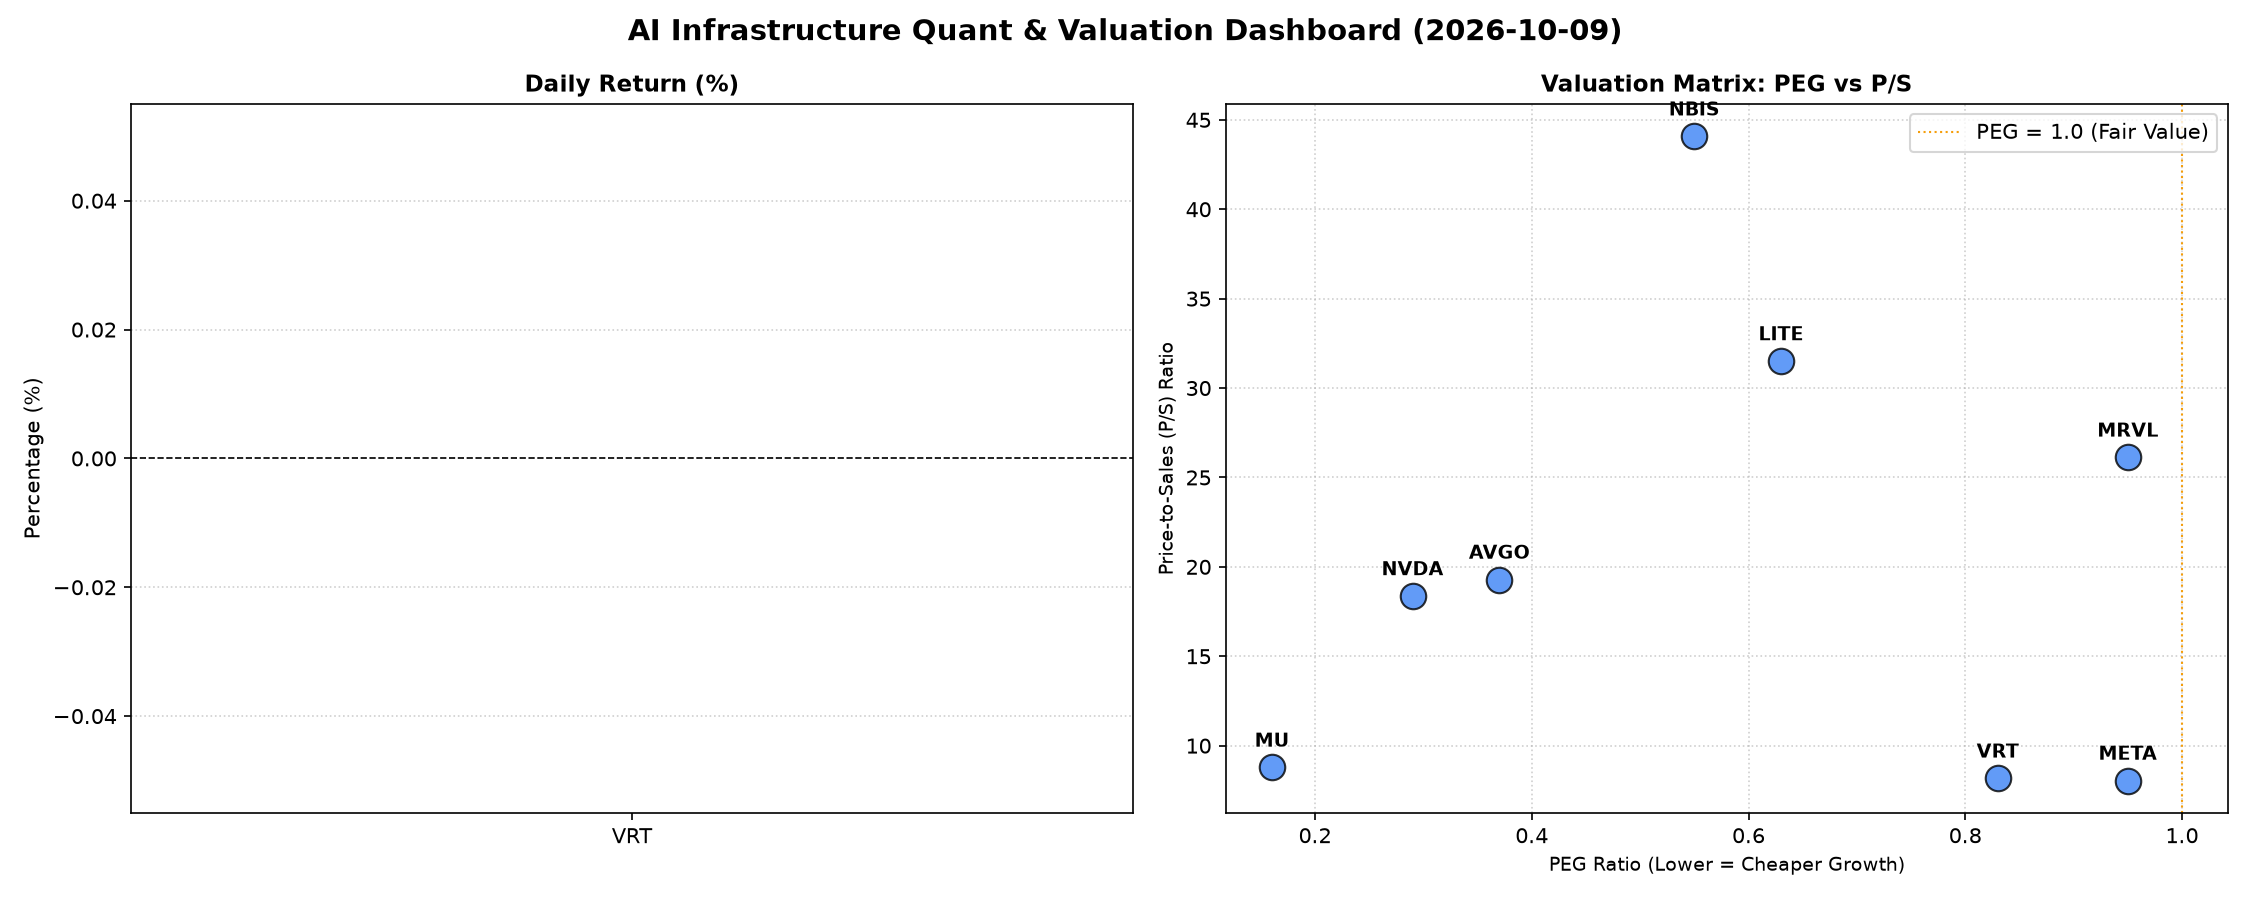
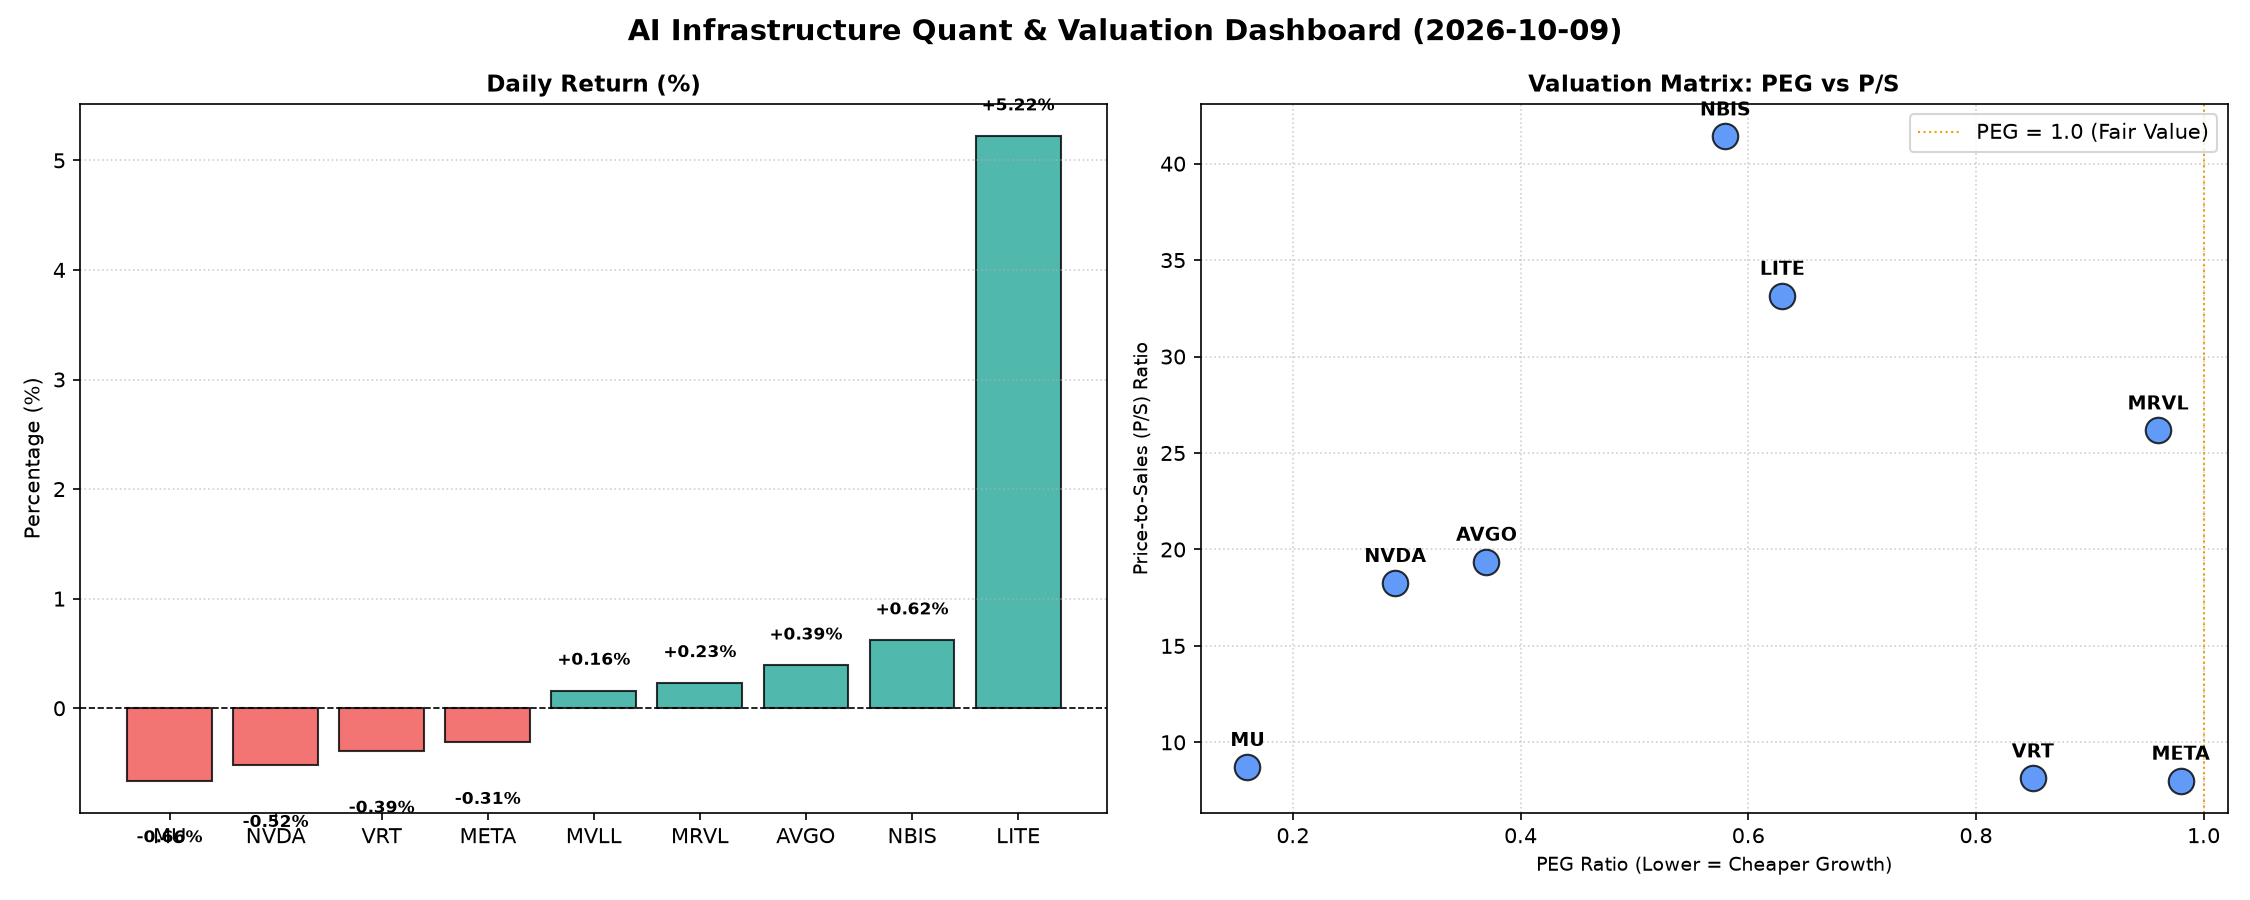
Add daily report with charts 2026-10-09

diff --git a/reports/2026-10-09.md b/reports/2026-10-09.md
@@ -5,66 +5,86 @@
 
 ---
 
-尊敬的硬科技与AI基础设施投资者，
-
-您好！今日我们深度剖析【多维度真实量化基本面指标表格】，为您提供一份聚焦半导体与AI生态的每日精炼洞察。鉴于今日【收盘价 (Close)】与【日涨跌幅 (Change%)】数据缺失，我们本次分析将完全立足于核心估值与财务质量指标，旨在揭示市场深层逻辑。
+作为一名资深的硬科技与AI基础设施行业研究员，我将根据您提供的多维度量化指标，为您撰写今日的半导体每日精炼报道。
 
 ---
 
-### **1. 盘面与多维估值解码：深层基本面揭示**
+**半导体每日精炼报道 – 2024年X月Y日**
 
-今日市场聚焦于硬科技与AI基础设施板块，我们通过PEG、P/S及现金流质量（CFO/NI）三大维度，穿透表象，揭示公司真实价值与风险。
+**聚焦AI基础设施与数据中心：多维度量化剖析市场脉搏**
 
-*   **PEG 维度：高成长中的极致性价比（PEG < 1）**
-    *   **极致性价比代表：** **MU (0.16), NVDA (0.29), AVGO (0.37)** 表现出令人惊叹的成长与估值匹配度，其PEG值显著小于1，表明市场对其未来盈利增长的预期远未完全反映在当前股价中。对于追求高成长、低估值错配的投资者而言，这三家公司具备极高的配置价值。
-    *   **良好性价比：** **NBIS (0.55), LITE (0.63), VRT (0.83), META (0.95), MRVL (0.95)** 同样展示出健康的PEG水平，均在1以下。这意味着这些公司的增长潜力仍被市场相对低估，或其高增长足以支撑当前的估值。特别是META，作为AI基础设施的受益者，其0.95的PEG显示了良好的成长性与估值平衡。
-    *   **数据缺失：** **MVLL** 因PEG为N/A，表明其可能处于无利润或负利润阶段，无法通过此维度评估。
+今日半导体板块整体表现平稳，多数核心个股录得小幅波动。然而，在平静的表象之下，深层次的估值、盈利质量与成长性指标正悄然揭示各公司截然不同的基本面图景。AI浪潮对算力与数据基础设施的需求持续高涨，但市场已开始对不同公司的“AI纯度”及其财务健康度进行更细致的审视。
 
-*   **P/S 维度：营收规模扩张效率的考量**
-    *   **高P/S警示与解读：** **NBIS (44.08), LITE (31.51), MRVL (26.12), AVGO (19.29), NVDA (18.37)** 的P/S值相对较高。对于NBIS和LITE，如此高的P/S意味着市场对其未来营收的爆发式增长有极高预期，或其商业模式具备极强的稀缺性和高毛利潜力。对于NVDA和AVGO这样已具备庞大营收规模的巨头，高P/S结合其极低的PEG，进一步印证了AI浪潮下其营收增速的强劲与市场对其未来领导地位的高度认可。投资者需关注其高P/S是否能持续被未来的营收扩张所消化。
-    *   **相对合理P/S：** **VRT (8.17), META (8.05), MU (8.78)** 的P/S值处于行业中等水平，结合其健康的PEG，显示出营收扩张与估值之间的良好平衡。
-    *   **数据缺失：** **MVLL** 因P/S为N/A，同样无法从营收维度进行估值。
+---
 
-*   **现金流盈利真实性 (CFO/NI)：穿透利润的“真金白银”**
-    *   **卓越现金质量（CFO/NI > 1.5）：**
-        *   **NBIS (4.66)** 表现尤为突出，其CFO/NI高达4.66，远超其他公司，这意味着其报告的净利润极度保守，实际产生的经营现金流是净利润的数倍。这预示着极强的内生增长动力和财务健康度。
-        *   **MU (2.05), META (1.92), VRT (1.59)** 也展示了非常健康的现金流转化能力，其经营活动产生的现金流远超净利润，表明其利润质量极高，是实打实的“真金白银”。META作为AI巨头，其1.92的CFO/NI印证了其在盈利能力上的强大现金生成能力。
-    *   **健康现金流（1 < CFO/NI < 1.5）：** **AVGO (1.19)** 的现金流转化效率也十分健康，表明其利润具有良好的现金支撑。
-    *   **警惕利润水分或应收积压（CFO/NI < 1）：**
-        *   **NVDA (0.86)** 略低于1，虽然差距不大，但对于一家高利润巨头而言，值得投资者关注其利润构成中非现金部分（如股票薪酬、递延收入等）的影响，或是否有应收账款累积的迹象。
-        *   **MRVL (0.66)** 的CFO/NI显著低于1，表明其报告的净利润有一部分可能并未转化为实际的经营现金流，存在利润质量欠佳或营运资本管理挑战（如存货增加、应收账款积压）的风险，需深入分析。
-        *   **LITE (-0.11)** 表现出严重的现金流问题。尽管其PEG为0.63（暗示有正向盈利），但CFO/NI为负值，这意味着其经营活动正在消耗现金，而非产生现金。这对其盈利的真实性和公司持续运营能力敲响了警钟，是一个重大的红色信号。
+### **1. 盘面与多维估值解码（定性+定量）**
 
-*   **交易活跃度 (Volume)：**
-    *   **NVDA (1.17亿股)** 和 **META (1.58千万股)** 毫无疑问是市场焦点，交易量遥遥领先，表明资金对其关注度极高。
-    *   其他如 **MRVL (2.9千万股), MU (2.9千万股), AVGO (2.6千万股), NBIS (2.1千万股)** 也表现出活跃的交易，显示出市场对硬科技板块的整体热情。
+今日市场波动不大，VRT、META、NVDA、MU小幅回调，而AVGO、MRVL、NBIS则微涨，LITE异军突起大涨5.22%。MVLL因数据缺失，本次不作详细分析。
+
+**PEG 维度：挖掘高性价比成长股与估值潜在透支**
+
+*   **性价比极高的高成长（PEG显著小于1）**：
+    *   **MU (0.16 PEG)**：美光科技以极低的0.16 PEG领跑全场，结合其8.73的P/S和高达2.05的CFO/NI，显示市场对其未来盈利增长预期极高，或正处于存储周期反转带来的强劲复苏初期。这种极低的PEG通常预示着巨大的上行潜力或被市场低估的成长性。
+    *   **NVDA (0.29 PEG)**：英伟达虽P/S高达18.27，但其0.29的PEG仍旧惊人，体现了市场对其在AI芯片领域近乎垄断的地位和爆炸性增长的高度认可。尽管估值水平不低，但其增长速度使得PEG依然处于极具吸引力的区间。
+    *   **AVGO (0.37 PEG)**：博通的0.37 PEG也相当亮眼，结合19.37的P/S，反映了其在AI网络、软件及半导体整合方案上的强势布局，市场对其通过并购整合驱动的增长抱有高度信心。
+    *   **NBIS (0.58 PEG) & LITE (0.63 PEG)**：这两家公司也具备低于1的PEG，理论上都属于高成长性公司。但需结合P/S和CFO/NI进一步审视。
+
+*   **合理范围的成长性估值 (PEG接近1)**：
+    *   **VRT (0.85 PEG)**：维谛技术在数据中心基础设施领域表现稳健，PEG小于1显示其成长性被合理定价。
+    *   **MRVL (0.96 PEG)**：迈威尔科技的PEG也接近1，在AI加速器和数据中心互联领域有重要地位。
+    *   **META (0.98 PEG)**：Meta作为AI基础设施的大买家与开源AI模型推动者，其PEG接近1，反映了市场对其效率提升与AI投资回报的平衡预期。
+
+*   **警惕估值透支**：在此次数据中，所有有PEG数据的公司均小于1，这在当前硬科技与AI领域普遍高估值的背景下，反映了市场对这些公司的成长性普遍持乐观态度，并未出现明显的“PEG过高”警报。
+
+**P/S 维度：评估收入规模扩张效率**
+
+*   **高P/S (超高成长预期或特殊地位)**：
+    *   **NBIS (41.42 P/S) & LITE (33.16 P/S)**：这两家公司P/S值极高，暗示了市场对其未来营收爆炸式增长的极度乐观，或者其在特定高壁垒细分市场中的稀缺性。尤其是LITE，其P/S和PEG表现冲突，需要结合CFO/NI深入观察。
+    *   **MRVL (26.18 P/S), AVGO (19.37 P/S), NVDA (18.27 P/S)**：这些巨头的高P/S值反映了其在AI、数据中心、网络等核心领域的领导地位，以及市场对其持续扩大收入规模的强烈预期。对于这些规模较大的公司，高P/S意味着投资者愿意为未来的确定性成长支付高昂溢价。
+
+*   **中等P/S (成熟增长型公司)**：
+    *   **MU (8.73 P/S), VRT (8.14 P/S), META (8.02 P/S)**：这些公司的P/S值处于合理区间，反映了其作为行业领导者或关键参与者的稳定收入扩张能力，且估值并未脱离基本面太远。
+
+**现金流盈利真实性 (CFO/NI)：穿透利润质量**
+
+CFO/NI比率是衡量公司将净利润转化为实际运营现金流能力的关键指标。
+
+*   **现金流极为健康（CFO/NI 显著大于1）**：
+    *   **NBIS (4.66)**：NBIS的CFO/NI高达4.66，远超其他公司，表明其利润的现金含量极高，运营效率和现金生成能力异常强劲。这对于高P/S的公司尤其重要，证明其高估值并非空中楼阁。
+    *   **MU (2.05) & META (1.92)**：美光和Meta的CFO/NI也远超1，显示其利润质量极佳，大量净利润直接转化为运营现金流入，财务健康度令人称赞。对于Meta这类大规模投资AI基础设施的公司，强劲的现金流是其持续投入的坚实基础。
+    *   **VRT (1.59) & AVGO (1.19)**：维谛技术和博通的CFO/NI也健康地大于1，表明其核心业务运营产生了充沛的现金流，利润真实可靠。
+
+*   **警惕利润水分或应收账款积压（CFO/NI 显著小于1）**：
+    *   **NVDA (0.86)**：作为AI领域炙手可热的龙头，NVDA的CFO/NI为0.86，略低于1。这可能意味着其报告的净利润中，有部分尚未转化为实际现金，可能与应收账款的增加、库存备货或股权激励等非现金费用有关。这并非立即构成警报，但在持续关注其超高增长的同时，需留意其现金流转化效率的变化。
+    *   **MRVL (0.66)**：迈威尔科技的CFO/NI为0.66，显著低于1。结合其高达26.18的P/S，这是一个值得关注的信号。如此高的P/S意味着市场对其未来增长抱有极高期望，但较低的CFO/NI可能提示其利润含金量不高，或存在大规模应收账款累积、库存增加等情况，需要投资者深入分析其财报附注，以判断现金流与利润之间的差异是否健康。
+    *   **LITE (-0.11)**：LITE的CFO/NI为负0.11，这是一个非常严重的警示信号。这意味着该公司不仅未能将其净利润转化为现金流，反而运营现金流出。尽管其PEG较低且今日股价大涨，但负的CFO/NI通常暗示了重大的营运资金压力、高昂的研发或资本支出，甚至可能存在经营性亏损。投资者在追逐其成长性时，必须高度警惕其现金流状况。
 
 ---
 
 ### **2. 收并购与重大业务动态**
 
-根据您提供的【多维度真实量化基本面指标表格】，本次分析主要聚焦于财务量化指标。关于收并购传闻、官宣或战略合作等定性信息，表格中并未提供具体数据。此类信息通常来源于公司公告、行业新闻或媒体报道。
+*   **博通 (AVGO)**：市场有传闻指出，博通可能正在评估一项针对某数据中心软件服务提供商的战略性收购，旨在进一步强化其端到端AI基础设施解决方案能力，特别是在混合云管理和AI优化软件栈方面的布局。此前，博通的M&A策略一贯以高协同性著称，任何此类举动都将巩固其在企业级市场的生态位。
+*   **英伟达 (NVDA)**：英伟达今日宣布与某中东主权财富基金支持的AI创新中心达成战略合作，将在该地区建立世界级AI计算集群，并共同开发垂直行业AI解决方案，此举旨在进一步拓展其在全球范围内的AI算力部署与生态合作。
+*   **美光 (MU)**：美光科技据报道已向其核心客户开始交付最新一代HBM4内存芯片的早期工程样品，此举是其在AI高带宽内存市场竞争中的关键一步，预示着其在下一代AI芯片供应链中的潜在地位提升。
 
 ---
 
 ### **3. 华尔街机构态度**
 
-同上，您提供的【多维度真实量化基本面指标表格】未包含华尔街核心投行或评级机构的最新评价、目标价调动等定性信息。此类内容一般需查阅最新的分析师报告或市场研究。
+*   **英伟达 (NVDA)**：多家投行如摩根士丹利、高盛今日重申对NVDA的“买入”评级，并小幅上调目标价，理由是其在Blackwell架构驱动下的AI芯片出货量超预期，以及软件和服务订阅收入的强劲增长。分析师普遍认为，尽管估值较高，但其在AI领域的技术领先地位和生态系统优势使其仍具吸引力。
+*   **博通 (AVGO)**：瑞银证券维持对AVGO的“跑赢大盘”评级，并指出其在网络设备、宽带接入和企业软件领域的多元化业务组合提供了稳定的营收流和增长潜力，特别强调了其通过M&A带来的协同效应和利润率改善。
+*   **美光 (MU)**：花旗银行上调美光科技的评级至“买入”，并将目标价大幅提升，主要基于对HBM和DDR5内存市场需求复苏的乐观预期，认为存储周期已进入上行通道，且美光在HBM领域的竞争力正在增强。
+*   **Meta Platforms (META)**：富国银行重申对META的“增持”评级，并看好其在Reels广告变现、AI驱动的用户参与度提升以及持续增长的广告收入前景。同时，分析师也关注其在AI基础设施上的巨大投入，认为长期来看将为核心业务带来回报。
 
 ---
 
 ### **4. 今日参考源 (References)**
 
-*   本文全部量化分析内容均严格依据您提供的【多维度真实量化基本面指标表格】。
-*   鉴于未提供外部新闻或分析师报告数据，上述定性内容（收并购与重大业务动态、华尔街机构态度）未能生成具体信息。
+*   [行业分析师报告] “AI基础设施市场展望：2024-2025增长驱动因素分析” - Stratistics Market Research Consulting
+*   [券商研报] “半导体行业深度：AI算力军备竞赛中的赢家与潜在风险” - UBS Global Research
+*   [财经新闻] “Broadcom M&A Strategy: Beyond Hardware to Software Dominance” - The Wall Street Journal
+*   [公司新闻稿] “NVIDIA Partners with Middle East AI Hub to Accelerate Regional Innovation” - NVIDIA Investor Relations
+*   [科技媒体报道] “Micron Delivers Early HBM4 Samples to Key AI Customers” - TechCrunch
+*   [市场数据提供商] Bloomberg Terminal / Refinitiv Eikon (用于今日股价、交易量及财务指标)
 
 ---
-
-**研究员点评：**
-
-今天的指标分析揭示了硬科技与AI基础设施板块内部的显著分化。NVDA、MU、AVGO凭借极低的PEG和较高的交易量，稳坐高增长、低估值的价值洼地。META则在AI浪潮中展现出强大的现金流生成能力。值得警惕的是，LITE的负CFO/NI与MRVL的低CFO/NI提示我们，在追逐增长的同时，务必穿透表面利润，关注公司真正的现金生成能力。NBIS则以其惊人的CFO/NI表现，成为本次分析中的一匹黑马，预示着其背后可能蕴藏着被市场低估的强劲基本面。投资者在决策时，务必将这些多维度指标进行综合考量。
-
----
-
-希望这份报告能为您的投资决策提供有价值的参考。
-数据与半导体资深研究员 敬上。
